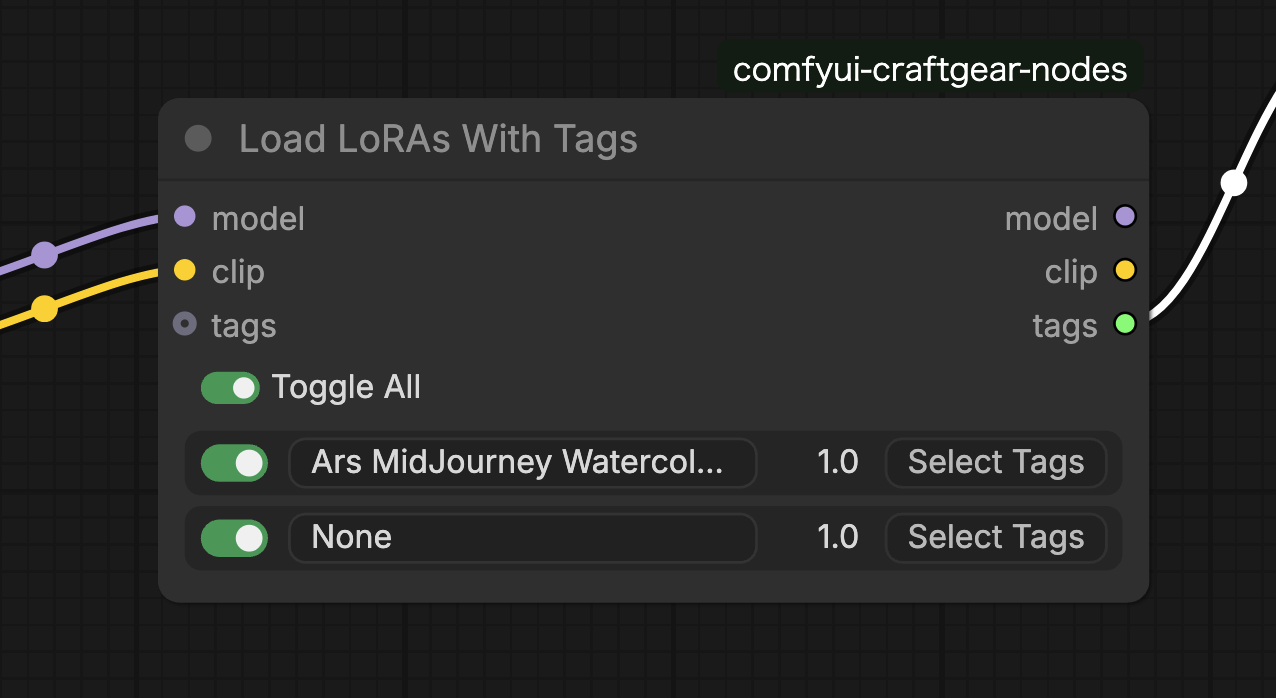
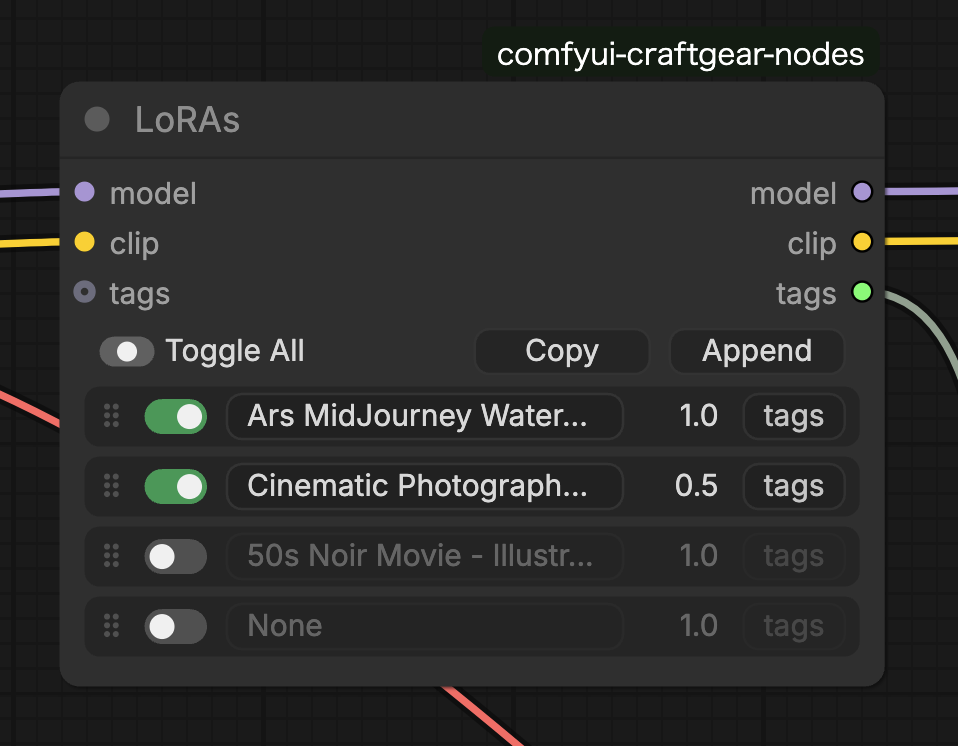
update

diff --git a/docs/load_loras_with_tags.ja.md b/docs/load_loras_with_tags.ja.md
@@ -8,6 +8,9 @@
 - 選択したタグは tags ハンドルから出力します。
 - LoRA選択はファイル名のファジーマッチで行えます。
 - 最大20個のLoRAを同時に適用できます。
+- ヘッダーに2つのアクションがあります:
+  - **Copy**: 他ノード（LoRA Loader / Power LoRA Loader / Load LoRAs With Tags など）からスロットを読み込み、現在のスロットを置き換えます。
+  - **Append**: 他ノードから読み込んだスロットを末尾に追加し、既存のスロットを上書きしません。
 
 
 ## LoRA選択ダイアログ

diff --git a/docs/load_loras_with_tags.md b/docs/load_loras_with_tags.md
@@ -8,6 +8,9 @@
 - Selected tags are output from the tags handle.
 - LoRA selection can be done with fuzzy matching on filenames.
 - Up to 20 LoRAs can be applied simultaneously.
+- Header has two actions:
+  - **Copy**: import LoRA slots from another node (LoRA Loader, Power LoRA Loader, Load LoRAs With Tags, etc.), replacing current slots.
+  - **Append**: import and append after existing slots without overwriting current ones.
 
 
 ## LoRA Selection Dialog
